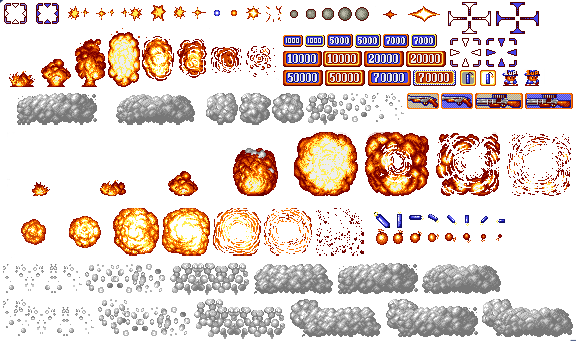
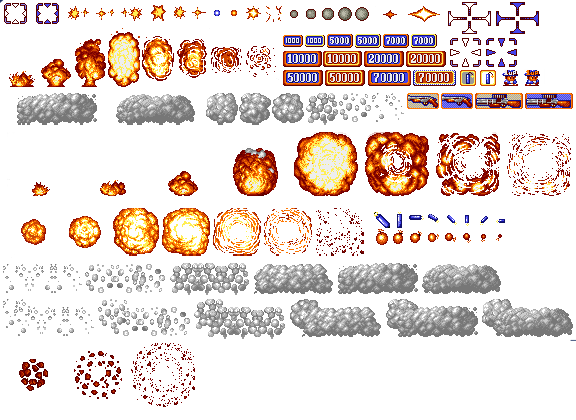
Improved the rock
Improved the rock animation, sprites and collition,
Added particles when the charriot dies.

diff --git a/bloodbros/ModuleCollision.cpp b/bloodbros/ModuleCollision.cpp
@@ -19,6 +19,7 @@ ModuleCollision::ModuleCollision()
 	matrix[COLLIDER_EXTRA][COLLIDER_POINT] = false;
 	matrix[COLLIDER_EXTRA][COLLIDER_POWERUP] = false;
 	matrix[COLLIDER_EXTRA][COLLIDER_TNT] = true;
+	matrix[COLLIDER_EXTRA][COLLIDER_ROCK] = false;
 
 	matrix[COLLIDER_PLAYER][COLLIDER_EXTRA] = false;
 	matrix[COLLIDER_PLAYER][COLLIDER_PLAYER] = false;
@@ -33,6 +34,7 @@ ModuleCollision::ModuleCollision()
 	matrix[COLLIDER_PLAYER][COLLIDER_POINT] = false;
 	matrix[COLLIDER_PLAYER][COLLIDER_POWERUP] = false;
 	matrix[COLLIDER_PLAYER][COLLIDER_TNT] = false;
+	matrix[COLLIDER_PLAYER][COLLIDER_ROCK] = false;
 
 	matrix[COLLIDER_ENEMY][COLLIDER_EXTRA] = false;
 	matrix[COLLIDER_ENEMY][COLLIDER_PLAYER] = true;
@@ -45,6 +47,7 @@ ModuleCollision::ModuleCollision()
 	matrix[COLLIDER_ENEMY][COLLIDER_POINT] = false;
 	matrix[COLLIDER_ENEMY][COLLIDER_POWERUP] = false;
 	matrix[COLLIDER_ENEMY][COLLIDER_TNT] = false;
+    matrix[COLLIDER_ENEMY][COLLIDER_ROCK] = false;
 
 	matrix[COLLIDER_PLAYER_SHOT][COLLIDER_EXTRA] = true;
 	matrix[COLLIDER_PLAYER_SHOT][COLLIDER_PLAYER] = true;
@@ -56,6 +59,7 @@ ModuleCollision::ModuleCollision()
 	matrix[COLLIDER_PLAYER_SHOT][COLLIDER_POINT] = false;
 	matrix[COLLIDER_PLAYER_SHOT][COLLIDER_POWERUP] = false;
 	matrix[COLLIDER_PLAYER_SHOT][COLLIDER_TNT] = false;
+	matrix[COLLIDER_PLAYER_SHOT][COLLIDER_ROCK] = true;
 
 	matrix[COLLIDER_ENEMY_SHOT][COLLIDER_EXTRA] = false;
 	matrix[COLLIDER_ENEMY_SHOT][COLLIDER_PLAYER] = false;
@@ -67,6 +71,7 @@ ModuleCollision::ModuleCollision()
 	matrix[COLLIDER_ENEMY_SHOT][COLLIDER_POINT] = false;
 	matrix[COLLIDER_ENEMY_SHOT][COLLIDER_POWERUP] = false;
 	matrix[COLLIDER_ENEMY_SHOT][COLLIDER_TNT] = false;
+	matrix[COLLIDER_ENEMY_SHOT][COLLIDER_ROCK] = true;
 
 	matrix[COLLIDER_WALL][COLLIDER_EXTRA] = false;
 	matrix[COLLIDER_WALL][COLLIDER_PLAYER] = false;
@@ -78,6 +83,7 @@ ModuleCollision::ModuleCollision()
 	matrix[COLLIDER_WALL][COLLIDER_POINT] = false;
 	matrix[COLLIDER_WALL][COLLIDER_POWERUP] = false;
 	matrix[COLLIDER_WALL][COLLIDER_TNT] = true;
+	matrix[COLLIDER_WALL][COLLIDER_ROCK] = false;
 
 	matrix[COLLIDER_BOMB][COLLIDER_BOMB] = false;
 	matrix[COLLIDER_BOMB][COLLIDER_EXTRA] = false;
@@ -91,6 +97,7 @@ ModuleCollision::ModuleCollision()
 	matrix[COLLIDER_BOMB][COLLIDER_POINT] = false;
 	matrix[COLLIDER_BOMB][COLLIDER_POWERUP] = false;
 	matrix[COLLIDER_BOMB][COLLIDER_TNT] = false;
+	matrix[COLLIDER_BOMB][COLLIDER_ROCK] = false;
 
 	matrix[COLLIDER_CASK][COLLIDER_BOMB] = false;
 	matrix[COLLIDER_CASK][COLLIDER_EXTRA] = false;
@@ -100,10 +107,11 @@ ModuleCollision::ModuleCollision()
 	matrix[COLLIDER_CASK][COLLIDER_ENEMY_SHOT] = true;
 	matrix[COLLIDER_CASK][COLLIDER_WALL] = false;
 	matrix[COLLIDER_CASK][COLLIDER_NONE] = false;
-	matrix[COLLIDER_CASK][COLLIDER_BOMB] = false;
 	matrix[COLLIDER_CASK][COLLIDER_POINT] = false;
+	matrix[COLLIDER_CASK][COLLIDER_BOMB] = false;
 	matrix[COLLIDER_CASK][COLLIDER_POWERUP] = false;
 	matrix[COLLIDER_CASK][COLLIDER_TNT] = false;
+	matrix[COLLIDER_CASK][COLLIDER_ROCK] = false;
 
 	matrix[COLLIDER_POINT][COLLIDER_BOMB] = false;
 	matrix[COLLIDER_POINT][COLLIDER_EXTRA] = false;
@@ -113,11 +121,12 @@ ModuleCollision::ModuleCollision()
 	matrix[COLLIDER_POINT][COLLIDER_ENEMY_SHOT] = false;
 	matrix[COLLIDER_POINT][COLLIDER_WALL] = true;
 	matrix[COLLIDER_POINT][COLLIDER_NONE] = false;
-	matrix[COLLIDER_POINT][COLLIDER_BOMB] = false;
 	matrix[COLLIDER_POINT][COLLIDER_POWERUP] = false;
+	matrix[COLLIDER_POINT][COLLIDER_BOMB] = false;
 	matrix[COLLIDER_POINT][COLLIDER_POINT] = false;
 	matrix[COLLIDER_POINT][COLLIDER_CASK] = false;
 	matrix[COLLIDER_POINT][COLLIDER_TNT] = false;
+	matrix[COLLIDER_POINT][COLLIDER_ROCK] = false;
 
 	matrix[COLLIDER_POWERUP][COLLIDER_BOMB] = false;
 	matrix[COLLIDER_POWERUP][COLLIDER_EXTRA] = false;
@@ -127,11 +136,12 @@ ModuleCollision::ModuleCollision()
 	matrix[COLLIDER_POWERUP][COLLIDER_ENEMY_SHOT] = false;
 	matrix[COLLIDER_POWERUP][COLLIDER_WALL] = true;
 	matrix[COLLIDER_POWERUP][COLLIDER_NONE] = false;
-	matrix[COLLIDER_POWERUP][COLLIDER_BOMB] = false;
+	matrix[COLLIDER_POWERUP][COLLIDER_BOMB] = false; 
 	matrix[COLLIDER_POWERUP][COLLIDER_POWERUP] = false;
 	matrix[COLLIDER_POWERUP][COLLIDER_CASK] = false;
 	matrix[COLLIDER_POWERUP][COLLIDER_TNT] = false;
-
+	matrix[COLLIDER_POWERUP][COLLIDER_ROCK] = false;
+	
 	matrix[COLLIDER_TNT][COLLIDER_BOMB] = true;
 	matrix[COLLIDER_TNT][COLLIDER_EXTRA] = true;
 	matrix[COLLIDER_TNT][COLLIDER_PLAYER] = false;
@@ -139,12 +149,30 @@ ModuleCollision::ModuleCollision()
 	matrix[COLLIDER_TNT][COLLIDER_PLAYER_SHOT] = false;
 	matrix[COLLIDER_TNT][COLLIDER_ENEMY_SHOT] = false;
 	matrix[COLLIDER_TNT][COLLIDER_WALL] = false;
-	matrix[COLLIDER_TNT][COLLIDER_NONE] = false;
-	matrix[COLLIDER_TNT][COLLIDER_BOMB] = false;
+	matrix[COLLIDER_TNT][COLLIDER_NONE] = false;	
 	matrix[COLLIDER_TNT][COLLIDER_POWERUP] = false;
 	matrix[COLLIDER_TNT][COLLIDER_POINT] = false;
 	matrix[COLLIDER_TNT][COLLIDER_CASK] = false;
+	matrix[COLLIDER_TNT][COLLIDER_NONE] = false;
 	matrix[COLLIDER_TNT][COLLIDER_TNT] = false;
+	matrix[COLLIDER_TNT][COLLIDER_BOMB] = false;
+	matrix[COLLIDER_TNT][COLLIDER_ROCK] = true;
+
+	matrix[COLLIDER_ROCK][COLLIDER_EXTRA] = false;
+	matrix[COLLIDER_ROCK][COLLIDER_PLAYER] = false;
+	matrix[COLLIDER_ROCK][COLLIDER_ENEMY] = false;
+	matrix[COLLIDER_ROCK][COLLIDER_PLAYER_SHOT] = true;
+	matrix[COLLIDER_ROCK][COLLIDER_ENEMY_SHOT] = false;
+	matrix[COLLIDER_ROCK][COLLIDER_WALL] = false;
+	matrix[COLLIDER_ROCK][COLLIDER_NONE] = false;
+	matrix[COLLIDER_ROCK][COLLIDER_BOMB] = false;
+	matrix[COLLIDER_ROCK][COLLIDER_POWERUP] = false;
+	matrix[COLLIDER_ROCK][COLLIDER_POINT] = false;
+	matrix[COLLIDER_ROCK][COLLIDER_CASK] = false;
+	matrix[COLLIDER_ROCK][COLLIDER_TNT] = true;
+	
+	
+
 }
 
 // Destructor
@@ -255,6 +283,9 @@ void ModuleCollision::DebugDraw()
 			App->render->DrawQuad(colliders[i]->rect, 125, 255, 255, alpha);
 			break;
 		case COLLIDER_TNT: // magenta
+			App->render->DrawQuad(colliders[i]->rect, 125, 125, 255, alpha);
+			break;
+		case COLLIDER_ROCK: // magenta
 			App->render->DrawQuad(colliders[i]->rect, 125, 125, 255, alpha);
 			break;
 		}

diff --git a/bloodbros/ModuleBuildings.cpp b/bloodbros/ModuleBuildings.cpp
@@ -281,11 +281,15 @@ bool ModuleBuilding::Start()
 	trees.movement.speed = 0.2f;
 	trees.mytype = TREES;
 
-	rock.build.x = 1;
-	rock.build.y = 335;
-	rock.build.w = 65;
-	rock.build.h = 44;
+	rock.build.x = 2;
+	rock.build.y = 331;
+	rock.build.w = 64;
+	rock.build.h = 48;
 	rock.mytype = ROCK;
+
+
+
+
 	return true;
 }
 
@@ -394,6 +398,10 @@ void ModuleBuilding::AddBuilding(const Building& particle, int x, int y)
 	else if (p->mytype==TREES){
 		p->collider = App->collision->AddCollider({ p->position.x, p->position.y, 49, 40 }, COLLIDER_EXTRA, this);
 	}
+	else if (p->mytype == ROCK){
+		p->collider = App->collision->AddCollider({ p->position.x, p->position.y, 64, 64 }, COLLIDER_ROCK, this);
+	}
+
 	else{
 		p->collider = App->collision->AddCollider({ p->position.x, p->position.y, particle.build.w, particle.build.h }, COLLIDER_EXTRA, this);
 	}
@@ -509,23 +517,32 @@ void ModuleBuilding::OnCollision(Collider* c1, Collider* c2)
 			}
 			if (active[i] != nullptr && active[i]->get_collider() == c1 && active[i]->mytype == ROCK){
 				if (active[i]->hits == 0){
-					active[i]->build.x = 66;
-					active[i]->build.y = 335;
-					active[i]->build.w = 60;
+					active[i]->build.x = 65;
+					active[i]->build.y = 332;
+					active[i]->build.w = 64;
 					active[i]->hits++;
+
+					App->particles->AddParticle(App->particles->rockpieces, active[i]->position.x-20 , active[i]->position.y-10);
+					App->particles->AddParticle(App->particles->rockpieces, active[i]->position.x+10, active[i]->position.y );
 					break;
 				}
 				else if (active[i]->hits == 1){
-					active[i]->build.x = 127;
-					active[i]->build.y = 335;
+					active[i]->build.x = 130;
+					active[i]->build.y = 332;
 					active[i]->hits++;
+
+					App->particles->AddParticle(App->particles->rockpieces, active[i]->position.x - 20, active[i]->position.y - 5);
+					App->particles->AddParticle(App->particles->rockpieces, active[i]->position.x + 10, active[i]->position.y+5);
+
 					break;
 				}
 				else if (active[i]->hits == 2){
-					active[i]->build.x = 157;
-					active[i]->build.y = 156;
+					active[i]->build.x = 195;
+					active[i]->build.y = 332;
 					active[i]->hits++;
-					App->particles->AddParticle(App->particles->points7000, active[i]->position.x + 5, active[i]->position.y, 0.0f, 1.3f, COLLIDER_POINT, 0);
+
+					App->particles->AddParticle(App->particles->rockpieces, active[i]->position.x - 20, active[i]->position.y );
+					App->particles->AddParticle(App->particles->rockpieces, active[i]->position.x + 10, active[i]->position.y-10);
 				}
 			}
 		}

diff --git a/bloodbros/Charriot.cpp b/bloodbros/Charriot.cpp
@@ -69,6 +69,11 @@ void Enemy_Charriot::Move()
 	}*/
 	if (isdead == true) {
 
+
+		App->particles->AddParticle(App->particles->bigexplosion,position.x,position.y+10);
+		App->particles->AddParticle(App->particles->bigexplosion, position.x, position.y);
+		App->particles->AddParticle(App->particles->bigexplosion, position.x, position.y - 10);
+		App->particles->AddParticle(App->particles->bigexplosion, position.x, position.y - 20);
 		to_delete = true;
 
 	}
@@ -76,6 +81,8 @@ void Enemy_Charriot::Move()
 void Enemy_Charriot::OnCollision(Collider* c1, Collider* c2)
 {
 	App->particles->AddParticle(App->particles->tntammo, position.x, position.y, 0.0f, 1.3f, COLLIDER_POWERUP, 0);
+	
+	
 	isdead = true;
 
 }

diff --git a/bloodbros/Application.cpp b/bloodbros/Application.cpp
@@ -42,7 +42,7 @@ Application::Application()
 	modules[16] = player = new ModulePlayer();
 	modules[17] = fade = new ModuleFadeToBlack();
 	modules[18] = particles = new ModuleParticles();
-	modules[19] = collision = new ModuleCollision();
+    modules[19] = collision = new ModuleCollision();
 	modules[20] = scope = new ModuleScope();
 	modules[21] = ui = new ModuleUI();
 	

diff --git a/bloodbros/ModuleCollision.h b/bloodbros/ModuleCollision.h
@@ -1,7 +1,7 @@
 #ifndef __ModuleCollision_H__
 #define __ModuleCollision_H__
 
-#define MAX_COLLIDERS 100
+#define MAX_COLLIDERS 200
 
 #include "Module.h"
 
@@ -18,8 +18,9 @@ enum COLLIDER_TYPE
 	COLLIDER_CASK,
 	COLLIDER_POINT,
 	COLLIDER_POWERUP,
-	COLLIDER_TNT, 
-	COLLIDER_MAX
+	COLLIDER_TNT,
+	COLLIDER_MAX,
+
 };
 
 struct Collider

diff --git a/bloodbros/ModuleLevel2.cpp b/bloodbros/ModuleLevel2.cpp
@@ -247,6 +247,11 @@ update_status ModuleLevel2::Update()
 		App->mid->AddEnemy(ENEMY_TYPES3::GREENCOWBOYJUMPERRIGTH, 230, 80);
 	}
 
+	if (App->input->keyboard[SDL_SCANCODE_F6] == 1)
+	{
+		App->enemies->AddEnemy(ENEMY_TYPES::CHARRIOT, 220, 80);
+	}
+
 
 
 
